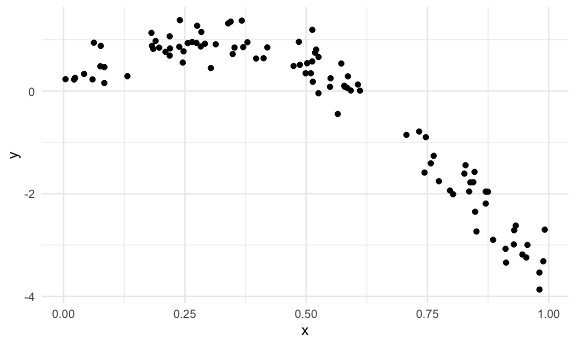
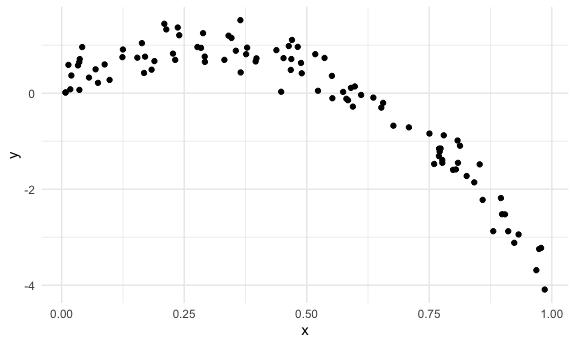
cross_validation_fake_data

diff --git a/cross_validation.md b/cross_validation.md
@@ -35,30 +35,6 @@ library(mgcv)
     ## This is mgcv 1.8-33. For overview type 'help("mgcv-package")'.
 
 ``` r
-library(gam)
-```
-
-    ## Loading required package: splines
-
-    ## Loading required package: foreach
-
-    ## 
-    ## Attaching package: 'foreach'
-
-    ## The following objects are masked from 'package:purrr':
-    ## 
-    ##     accumulate, when
-
-    ## Loaded gam 1.20
-
-    ## 
-    ## Attaching package: 'gam'
-
-    ## The following objects are masked from 'package:mgcv':
-    ## 
-    ##     gam, gam.control, gam.fit, s
-
-``` r
 library(modelr)
 library(broom)
 ```
@@ -190,18 +166,169 @@ linear model on TESTING dataset
 rmse(linear_mod, test_df)
 ```
 
-    ## [1] 0.7160699
+    ## [1] 0.6687464
 
 ``` r
 rmse(smooth_mod, test_df)
 ```
 
-    ## [1] 0.2730743
+    ## [1] 0.2788097
 
 ``` r
 rmse(wiggly_mod, test_df)
 ```
 
-    ## [1] 0.3222362
+    ## [1] 0.3152495
 
 We want the lowest RMSE.
+
+## Cross validation using `modelr`
+
+Automates generation of testing and training df
+
+``` r
+cv_df = 
+  crossv_mc(nonlin_df, 100)
+```
+
+What is happening here…
+
+Resampling objects: draws from sample repeatedly in random way
+
+``` r
+cv_df %>% pull(train) %>% .[[1]] %>% as_tibble()
+```
+
+    ## # A tibble: 79 x 3
+    ##       id      x       y
+    ##    <int>  <dbl>   <dbl>
+    ##  1     1 0.551   0.360 
+    ##  2     2 0.804  -1.59  
+    ##  3     3 0.365   0.432 
+    ##  4     4 0.482   0.965 
+    ##  5     6 0.760  -1.47  
+    ##  6     7 0.523   0.0497
+    ##  7     8 0.284   0.944 
+    ##  8     9 0.378   0.949 
+    ##  9    10 0.904  -2.52  
+    ## 10    11 0.0332  0.578 
+    ## # … with 69 more rows
+
+``` r
+cv_df %>% pull(test) %>% .[[1]] %>% as_tibble()
+```
+
+    ## # A tibble: 21 x 3
+    ##       id      x       y
+    ##    <int>  <dbl>   <dbl>
+    ##  1     5 0.0175  0.0809
+    ##  2    12 0.240   1.21  
+    ##  3    18 0.771  -1.22  
+    ##  4    24 0.183   0.489 
+    ##  5    26 0.656  -0.202 
+    ##  6    28 0.470   1.11  
+    ##  7    32 0.708  -0.711 
+    ##  8    33 0.773  -1.15  
+    ##  9    34 0.469   0.711 
+    ## 10    41 0.288   1.25  
+    ## # … with 11 more rows
+
+Can convert each df back into its own tibble as above
+
+Let’s get list columns of df, not resample objects
+
+``` r
+cv_df = 
+  cv_df %>% 
+  mutate(train = map(train, as_tibble),
+         test = map(test, as_tibble))
+```
+
+Let’s try to fit models and get RMSEs for each of these.
+
+``` r
+cv_df = 
+  cv_df %>% 
+  mutate(
+    linear_mod = map(.x = train, ~lm(y ~ x, data = .x)),
+    smooth_mod = map(.x = train, ~gam(y ~ s(x), data = .x)),
+    wiggly_mod = map(.x = train, ~gam(y ~ s(x, k = 30), sp = 10e-6, data = .x))
+  ) %>% 
+  mutate(
+    rmse_linear = map2_dbl(.x = linear_mod, .y = test, ~rmse(model = .x, data = .y)),
+    rmse_smooth = map2_dbl(.x = smooth_mod, .y = test, ~rmse(model = .x, data = .y)),
+    rmse_wiggly = map2_dbl(.x = wiggly_mod, .y = test, ~rmse(model = .x, data = .y))
+  )
+```
+
+What do these results say about model choices?
+
+``` r
+cv_df %>% 
+  select(starts_with("rmse")) %>% 
+  pivot_longer(
+    everything(),
+    names_to = "model",
+    values_to = "rmse",
+    names_prefix = "rmse_"
+  )
+```
+
+    ## # A tibble: 300 x 2
+    ##    model   rmse
+    ##    <chr>  <dbl>
+    ##  1 linear 0.834
+    ##  2 smooth 0.241
+    ##  3 wiggly 0.253
+    ##  4 linear 0.702
+    ##  5 smooth 0.278
+    ##  6 wiggly 0.353
+    ##  7 linear 0.746
+    ##  8 smooth 0.263
+    ##  9 wiggly 0.311
+    ## 10 linear 0.727
+    ## # … with 290 more rows
+
+``` r
+##plot this
+
+cv_df %>% 
+  select(starts_with("rmse")) %>% 
+  pivot_longer(
+    everything(),
+    names_to = "model",
+    values_to = "rmse",
+    names_prefix = "rmse_"
+  ) %>% 
+  ggplot(aes(x = model, y = rmse)) + 
+  geom_violin()
+```
+
+<img src="cross_validation_files/figure-gfm/unnamed-chunk-11-1.png" width="90%" />
+
+Cool\! Linear model does poorly. Among the 3 models, the smooth model
+does the best.
+
+Compute averages
+
+``` r
+cv_df %>% 
+  select(starts_with("rmse")) %>% 
+  pivot_longer(
+    everything(),
+    names_to = "model",
+    values_to = "rmse",
+    names_prefix = "rmse_"
+  ) %>% 
+  group_by(model) %>% 
+  summarize(avg_rmse = mean(rmse))
+```
+
+    ## `summarise()` ungrouping output (override with `.groups` argument)
+
+    ## # A tibble: 3 x 2
+    ##   model  avg_rmse
+    ##   <chr>     <dbl>
+    ## 1 linear    0.778
+    ## 2 smooth    0.296
+    ## 3 wiggly    0.352
